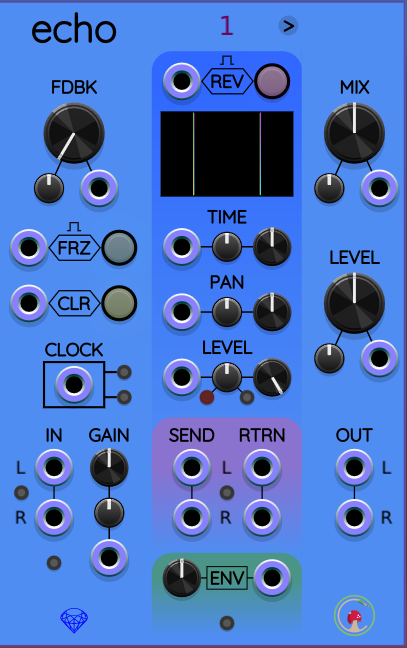
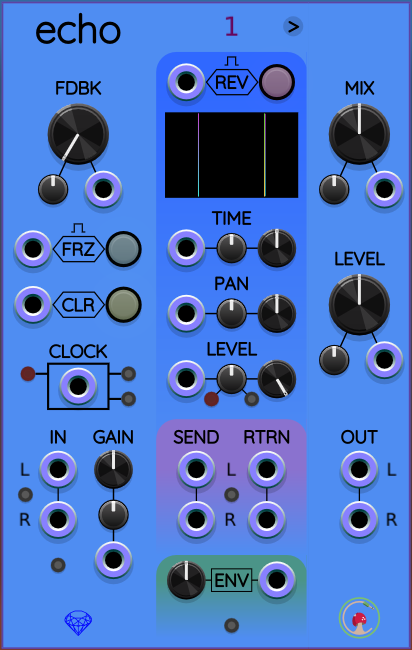
Echo: updated change log, docs, screenshot for fader button.

diff --git a/CHANGELOG.md b/CHANGELOG.md
@@ -9,6 +9,16 @@
 </tr>
 
 <tr valign="top">
+    <td align="center">6 May 2026</td>
+    <td align="center">2.6.005</td>
+    <td align="left">
+        <ul>
+            <li>Added a fader button to <a href="doc/Echo.md">Echo</a> to reduce the pitch-shifting distortion after a clear or reset occurs.</li>
+        </ul>
+    </td>
+</tr>
+
+<tr valign="top">
 <td align="center">30 Apr 2026</td>
 <td align="center">2.6.004</td>
 <td align="left">

diff --git a/doc/Echo.md b/doc/Echo.md
@@ -52,9 +52,10 @@ Useful for starting fresh or creatively replacing what’s currently in the dela
 CLR has a dedicated trigger input, allowing you to clear buffers rhythmically or based on another event in your patch.
 
 #### CLOCK
-You can sync your delay taps to an external clock using this input. There are two helpful buttons nearby:
+You can sync your delay taps to an external clock using this input. There are helpful buttons nearby. Hover the mouse over each button and read the resulting tooltip text. Here is more info about each one:
 * **Toggle all clock sync**: enables or disables sync for all taps at once.
 * **Snap to musical intervals**: lets you choose musical divisions like eighth notes, dotted eighths, triplets, and more for synced delay times. This makes it easier to stay in rhythm without dialing in values manually.
+* **Fader**: this button enables/disables an anti-pitch distortion feature. When the fader is enabled, after any clear (CLR button press for example) or patch reset, instead of immediately recording to the tape loops, there is a configurable period of silence time, followed by another configurable time to ramp up the recording level from 0 to 1. In the right-click menu for the Echo panel, there are two sliders for "Post-reset silence time" and "Post-reset ramp time". Both default to 1 second, but can be adjusted over the exponential range 0.1 seconds to 10 seconds.
 
 You can also click on the CLOCK label to toggle into [RATE mode](#toggling-clock--rate), which uses CV to continuously adjust the frequencies of all taps.
 